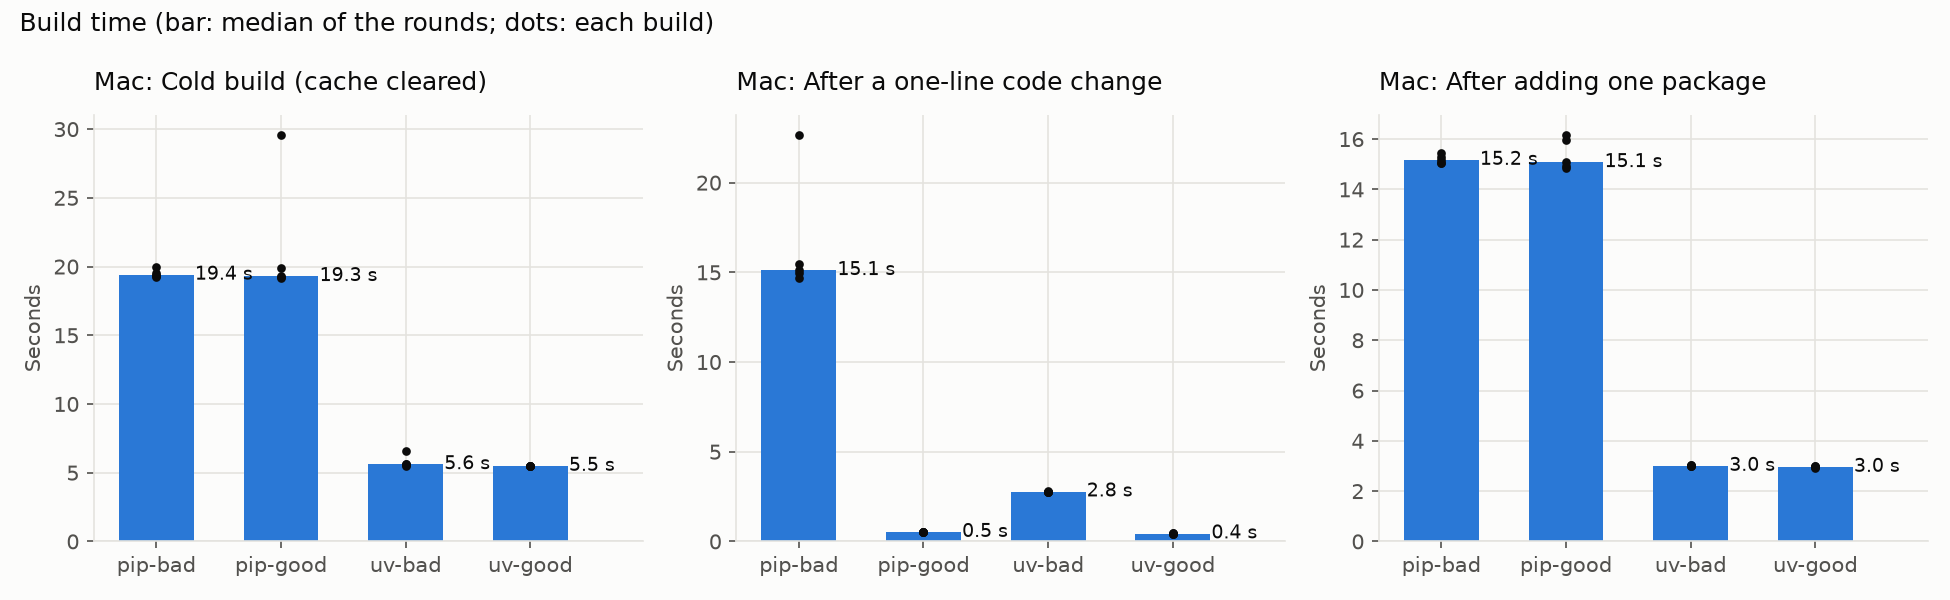
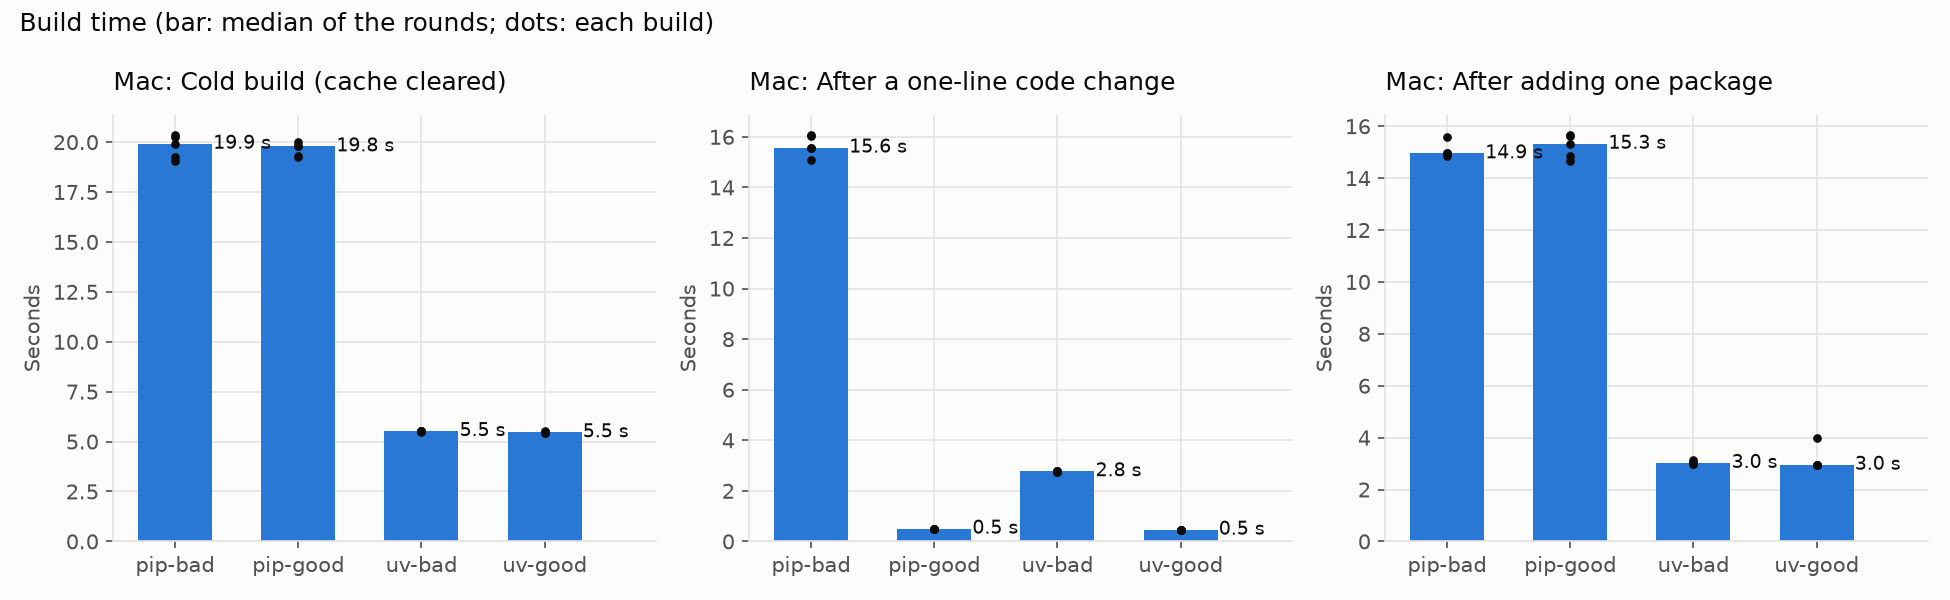
E3: Mac results, rerun with sizes as the sum of the layers
60/60 builds ok, all 5 images start. Replaces the first Mac run, whose
uncompressed sizes counted each layer twice (D106 update).

diff --git a/bench/data/setup.md b/bench/data/setup.md
@@ -172,10 +172,10 @@ the rest added by hand.
 
 | | |
 |---|---|
-| Date and time | 9 Nov 2026, 15:59–16:10 (+03:00) |
+| Date and time | 9 Nov 2026, 16:44–16:54 (+03:00) |
 | Mac | MacBook Air (Mac16,12), Apple M4, 24 GB; macOS 15.7.3; on AC power |
-| Docker | Docker Desktop, Engine 29.9.2; its Linux VM: aarch64, 10 CPUs, 8.3 GB memory; containerd image store (sizes as `docker image inspect` reports them) |
-| Kuyruk commit | `f0bef90` (Slice 13 code) |
+| Docker | Docker Desktop, Engine 29.9.2; its Linux VM: aarch64, 10 CPUs, 8.3 GB memory; containerd image store |
+| Kuyruk commit | `4ffbb20` (Slice 13 code, sizes as the sum of the layers) |
 | Base images | `python:3.12.16-trixie` (full) and `python:3.12.16-slim-trixie`, both pinned by digest; pip 25.0.1 as shipped in them; uv 0.13.7 |
 | Extra package | `six==1.17.0` |
 | Rounds | 5, interleaved (rotated order); build cache cleared (`docker builder prune -af`) before every cold build; base images downloaded once before the run |
@@ -185,6 +185,12 @@ the rest added by hand.
 ### E3 run notes (added by hand after the run)
 
 - All 60 builds worked; all 5 images started and answered `/health`.
+- An earlier full run (15:59–16:10, commit `f0bef90`) read the uncompressed
+  size from `docker image inspect`. Docker Desktop's containerd image store
+  counts each layer twice there (unpacked + its compressed copy: e.g.
+  uv-good 331 MB = 259 + 71), so its sizes were replaced by this run, which
+  sums the layers (D106 update). Its build times agreed with this run's
+  (medians within 0.5 s); its compressed sizes were the same.
 - Before the full run, one trial round (not kept) gave the same sizes to
   within 0.01 MB, and the same uv times, but slower pip cold builds (32 and
   44 s instead of ~19 s): pip downloads every library during a cold build, so
